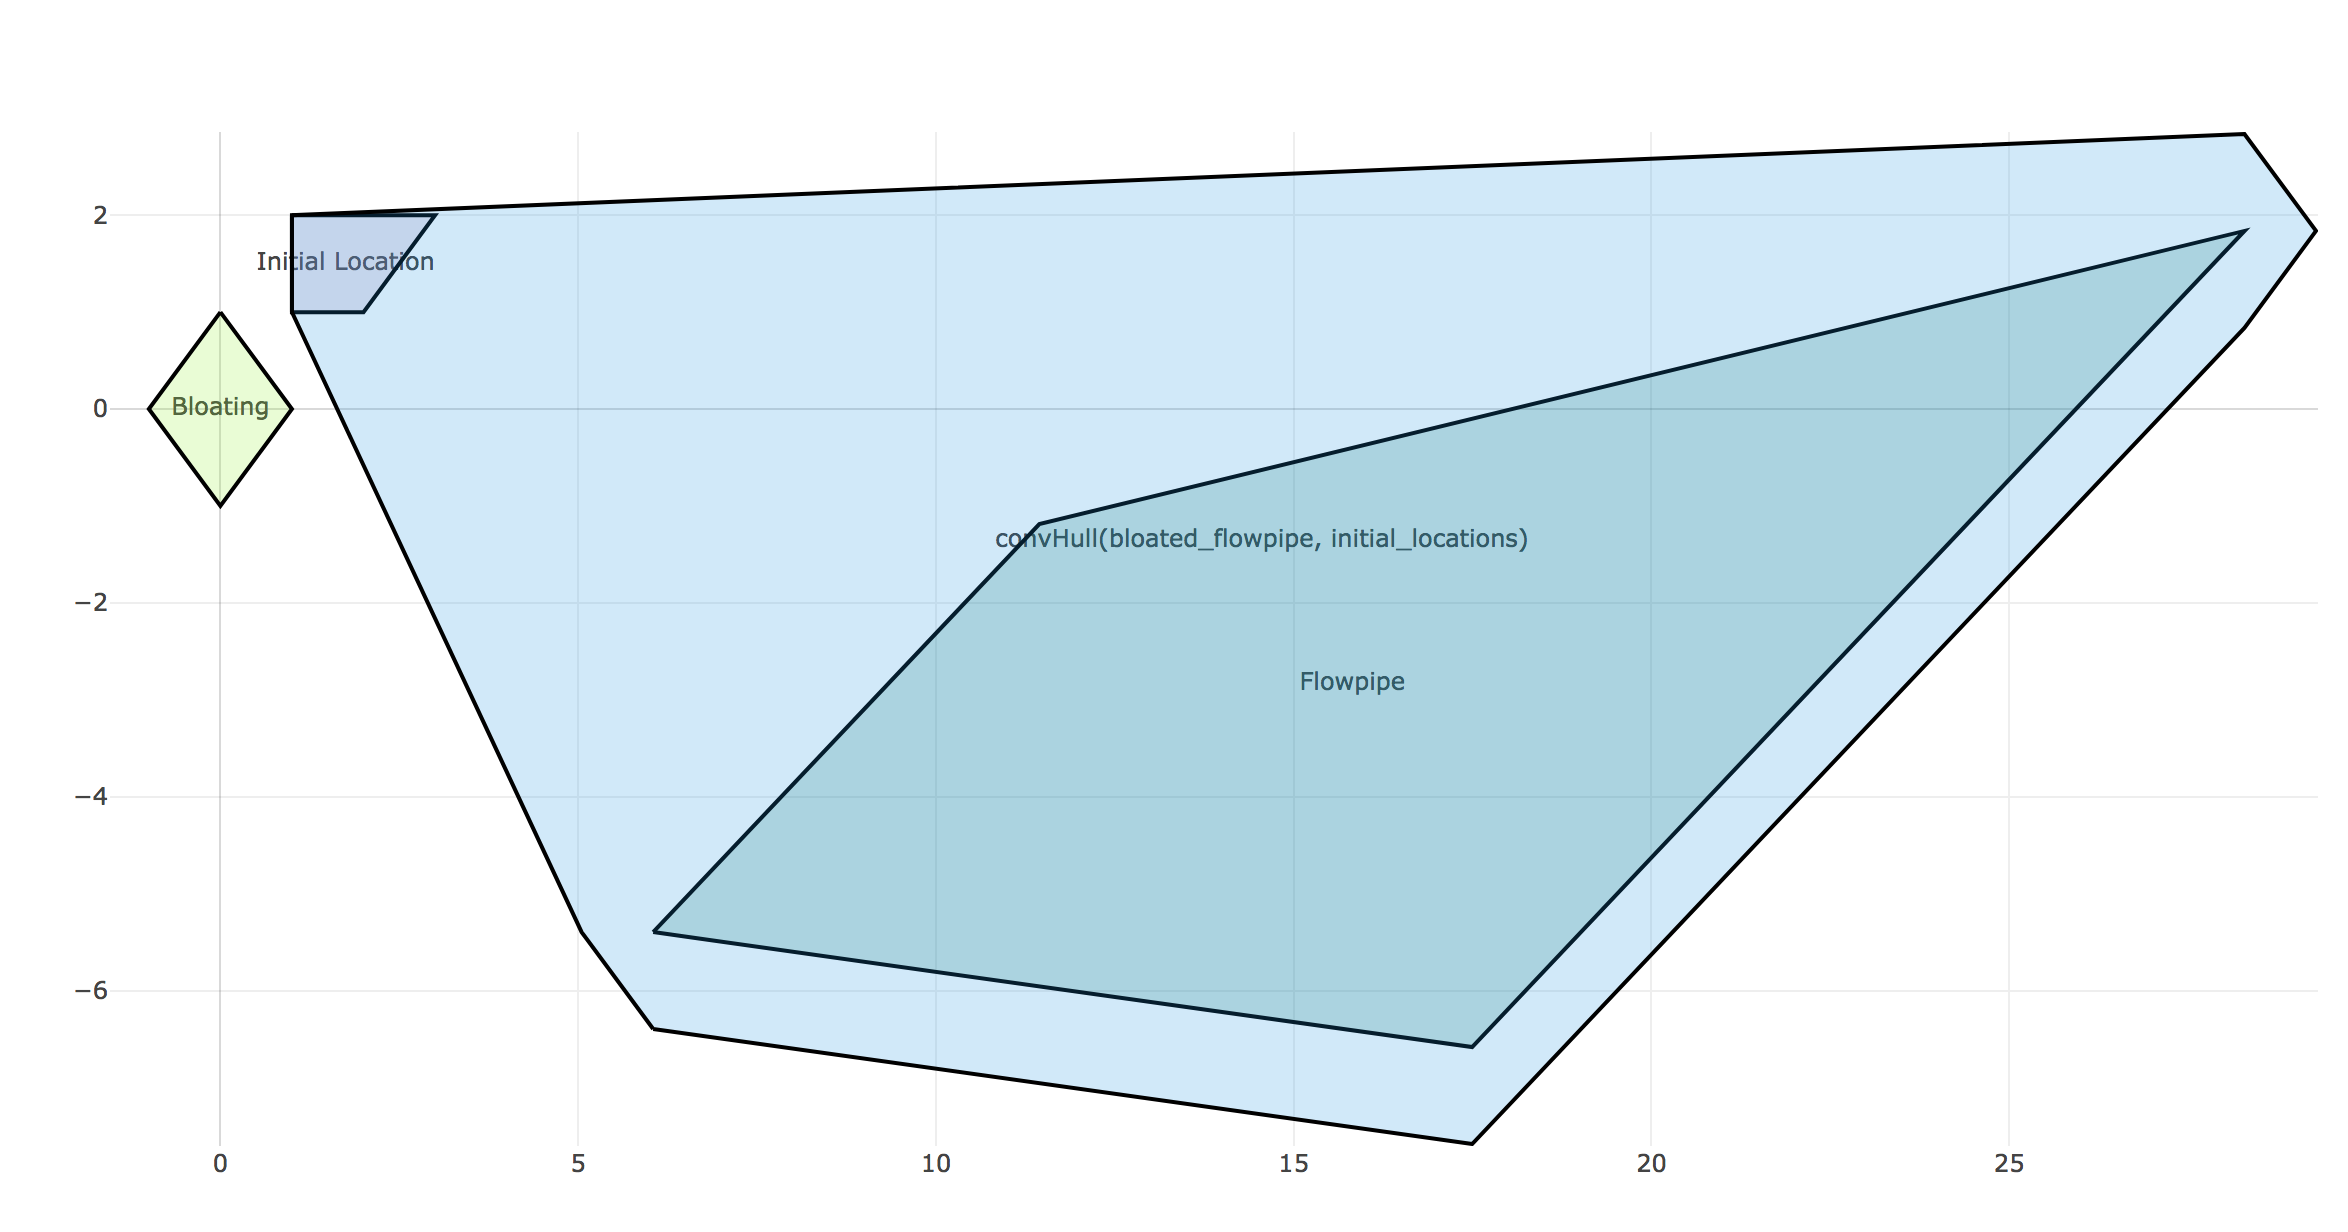
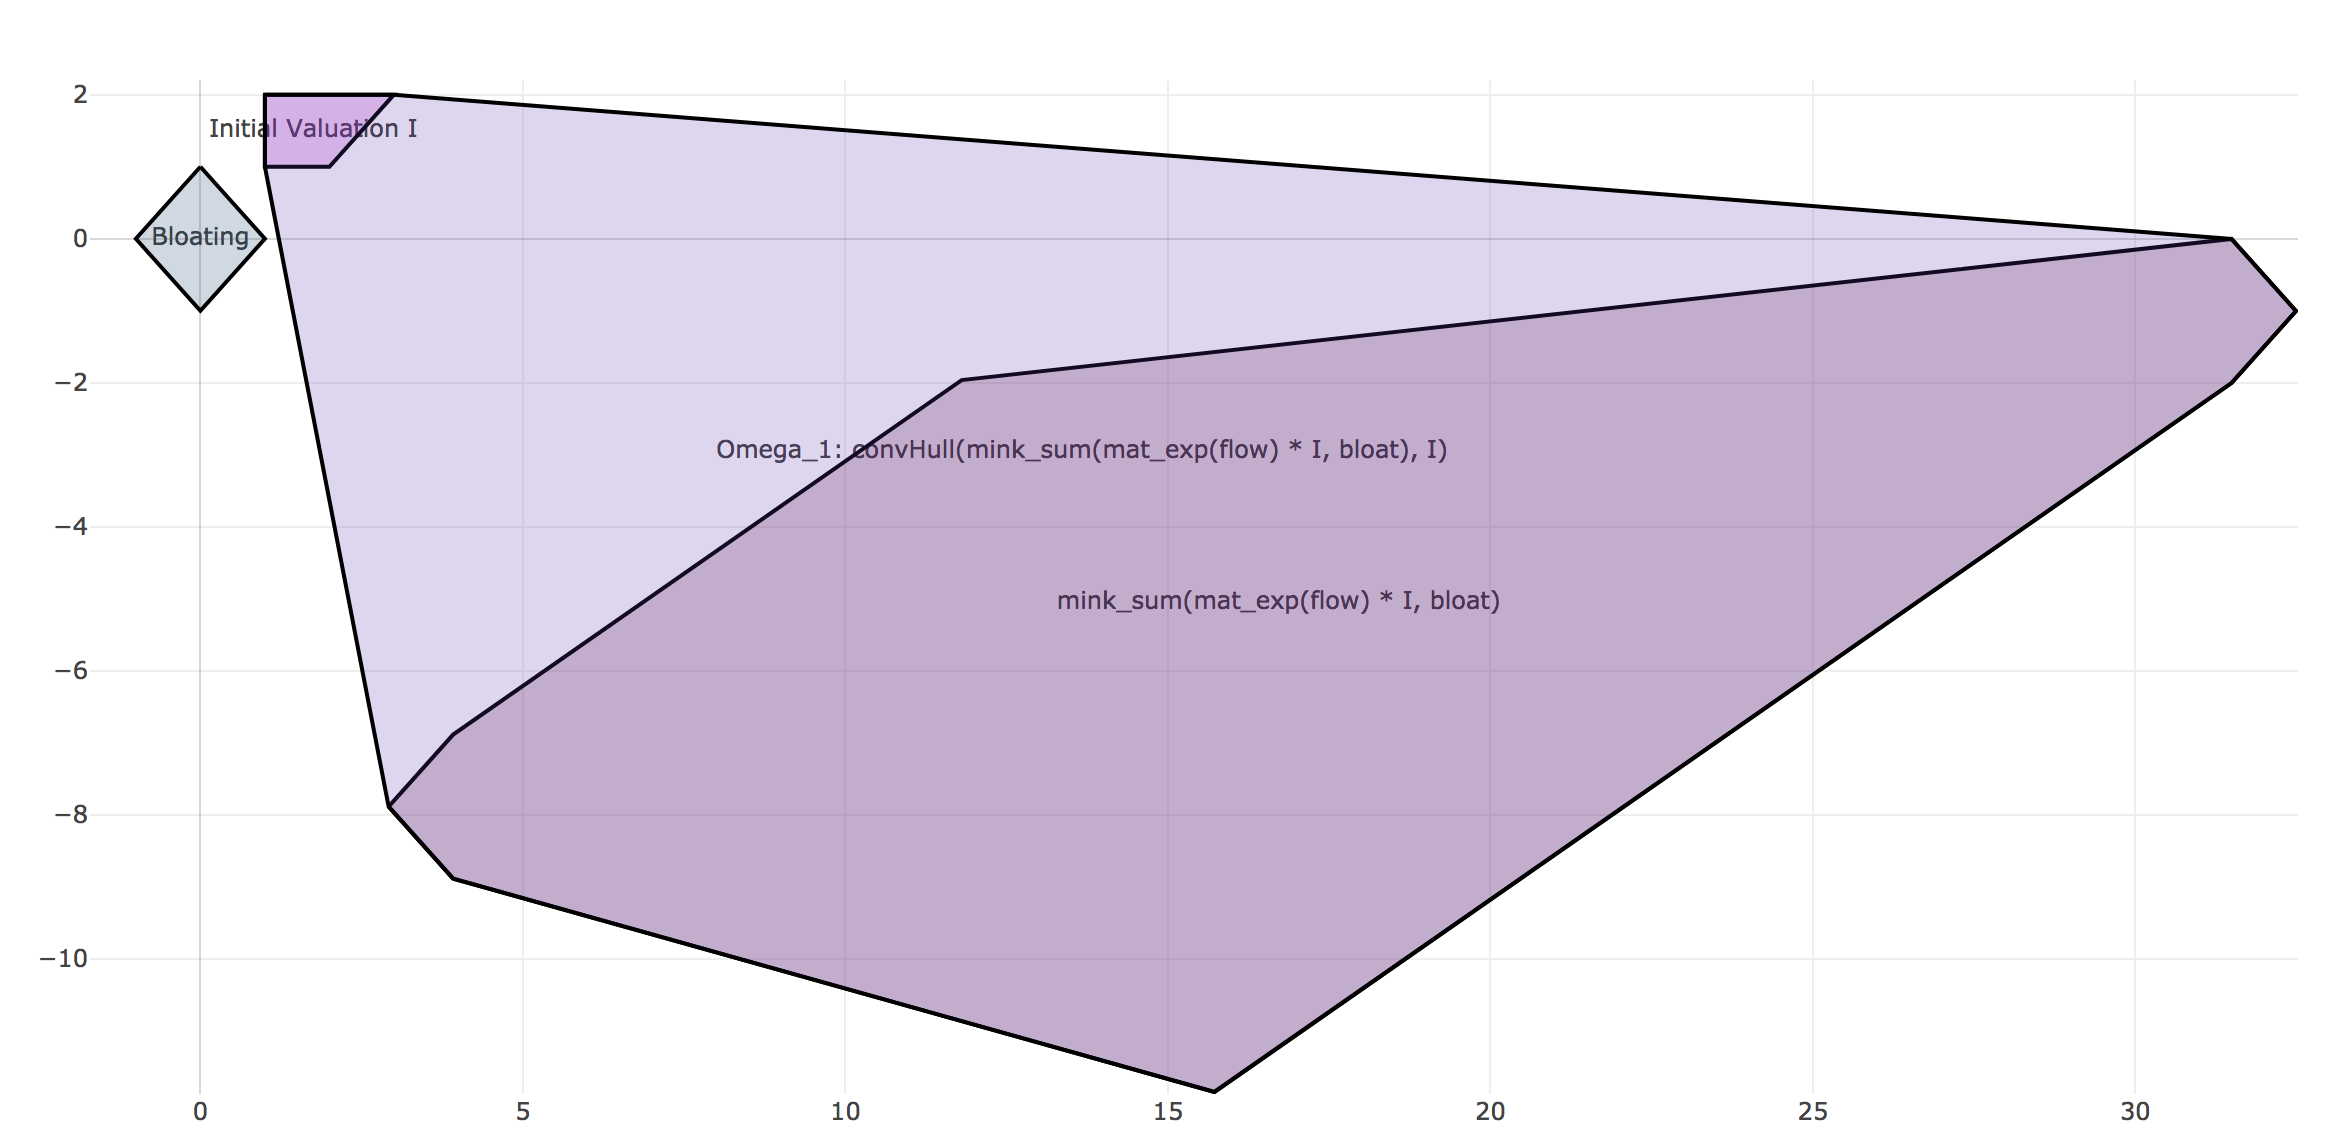
more doc improvements

diff --git a/src/flowp/flowp.py b/src/flowp/flowp.py
@@ -67,7 +67,7 @@ def approx(initial_location: List[np.ndarray], flow: np.ndarray,
             },
             {
                 'name': 'mink_sum(mat_exp(flow) * I, bloat)',
-                'vertices': flowpipe
+                'vertices': bloated_flowpipe
             },
             {
                 'name': 'Omega_1: convHull(mink_sum(mat_exp(flow) * I, bloat), I)',

diff --git a/README.md b/README.md
@@ -25,6 +25,8 @@ The above code will produce the following plot:
 
 ![Flowpipe plot](./example_flowp.png)
 
+One can optionally pass the argument `step_size`, which changes the standard step size from `1` to any desired value.
+
 # Setup
 
 If you have problems installing dependencies/setting this up to work, you can use `poetry` dependency management. Just run:
